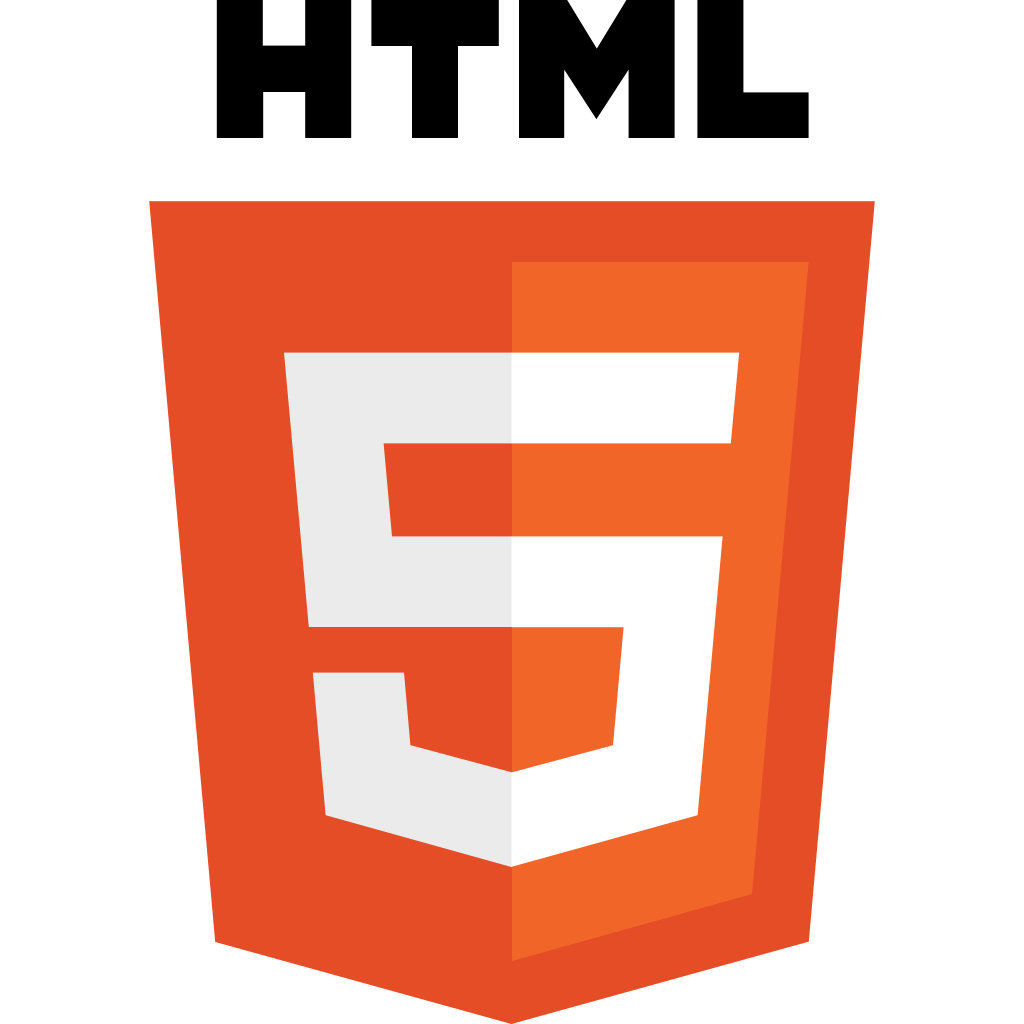
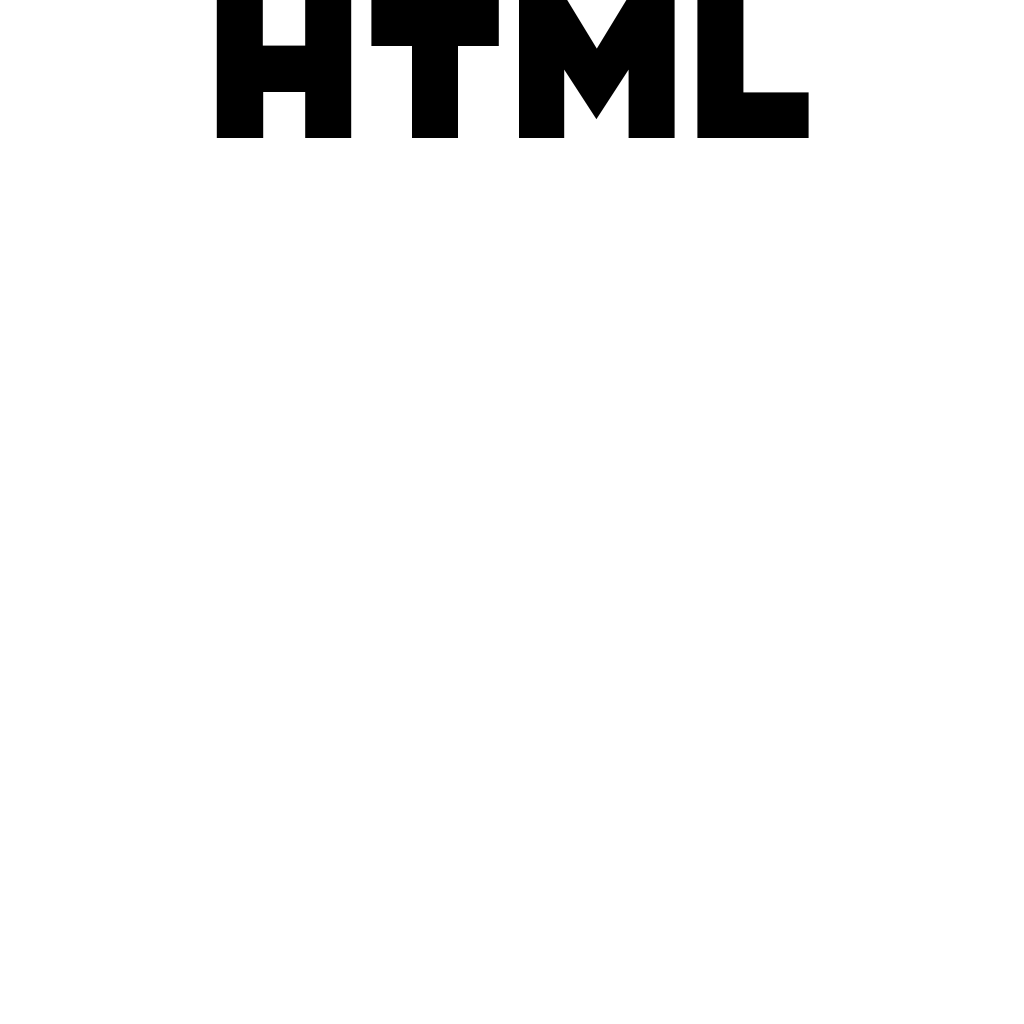
html,css,js iin svg zurgiig uurchluv

diff --git a/index.html b/index.html
@@ -217,11 +217,11 @@
                           <div class="row padding-20">
                             <!-- Icon -->
                             <div class="col-md-4 text-center">
-                              <div class="icon-box i-large ib-black">
+                              <div class="icon-box i-large ib-black margin-top-20">
                                 <!-- <div style="background-image: url(images/angular.svg);"></div> -->
                                 <img
-                                  style="width: 100px; height: 100px;"
-                                  src="images/html.png"
+                                  style="width: 100px; height: 80px;"
+                                  src="images/html-crop.png"
                                   alt="HTML5"
                                 />
                                 <div class="ib-info">
